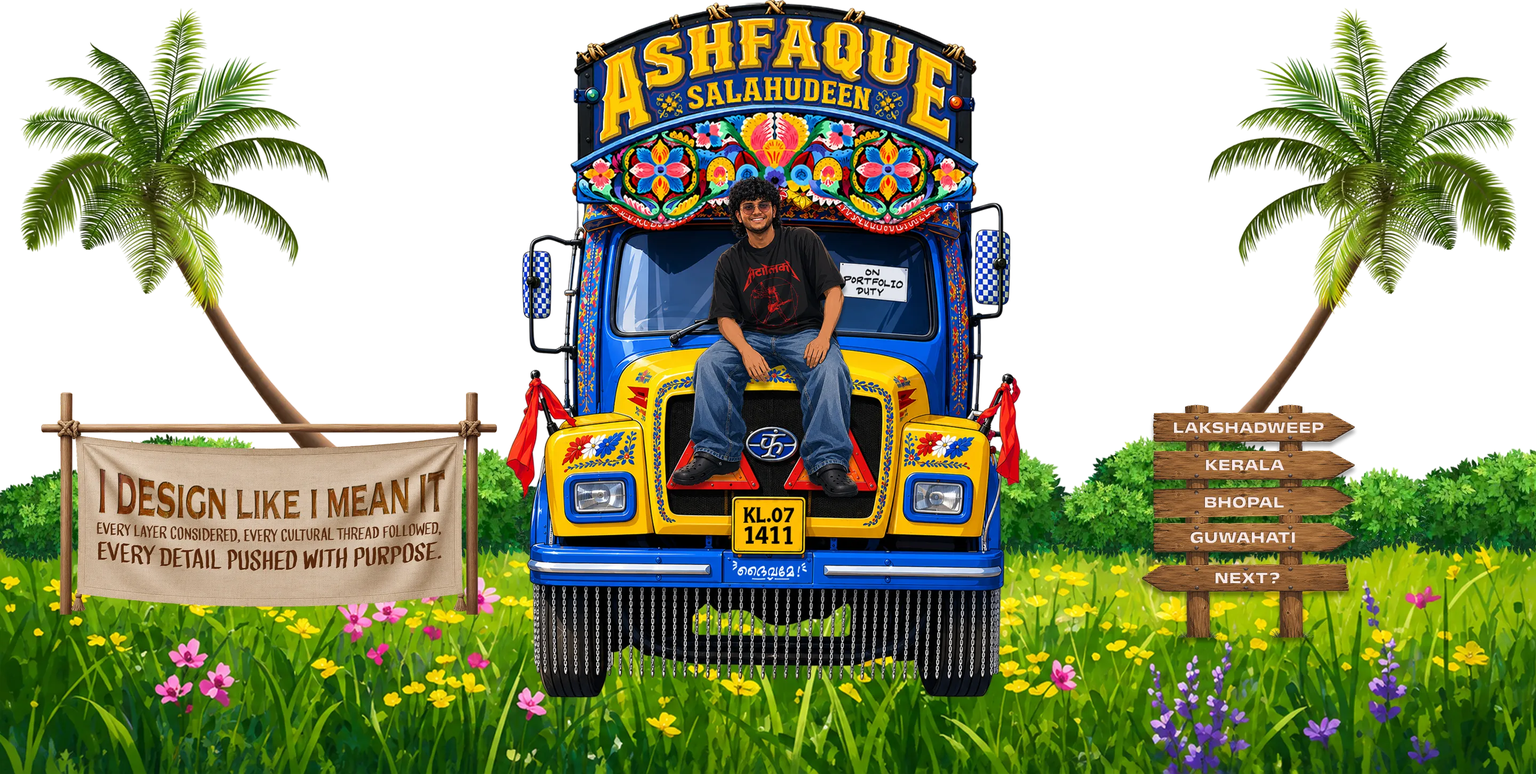
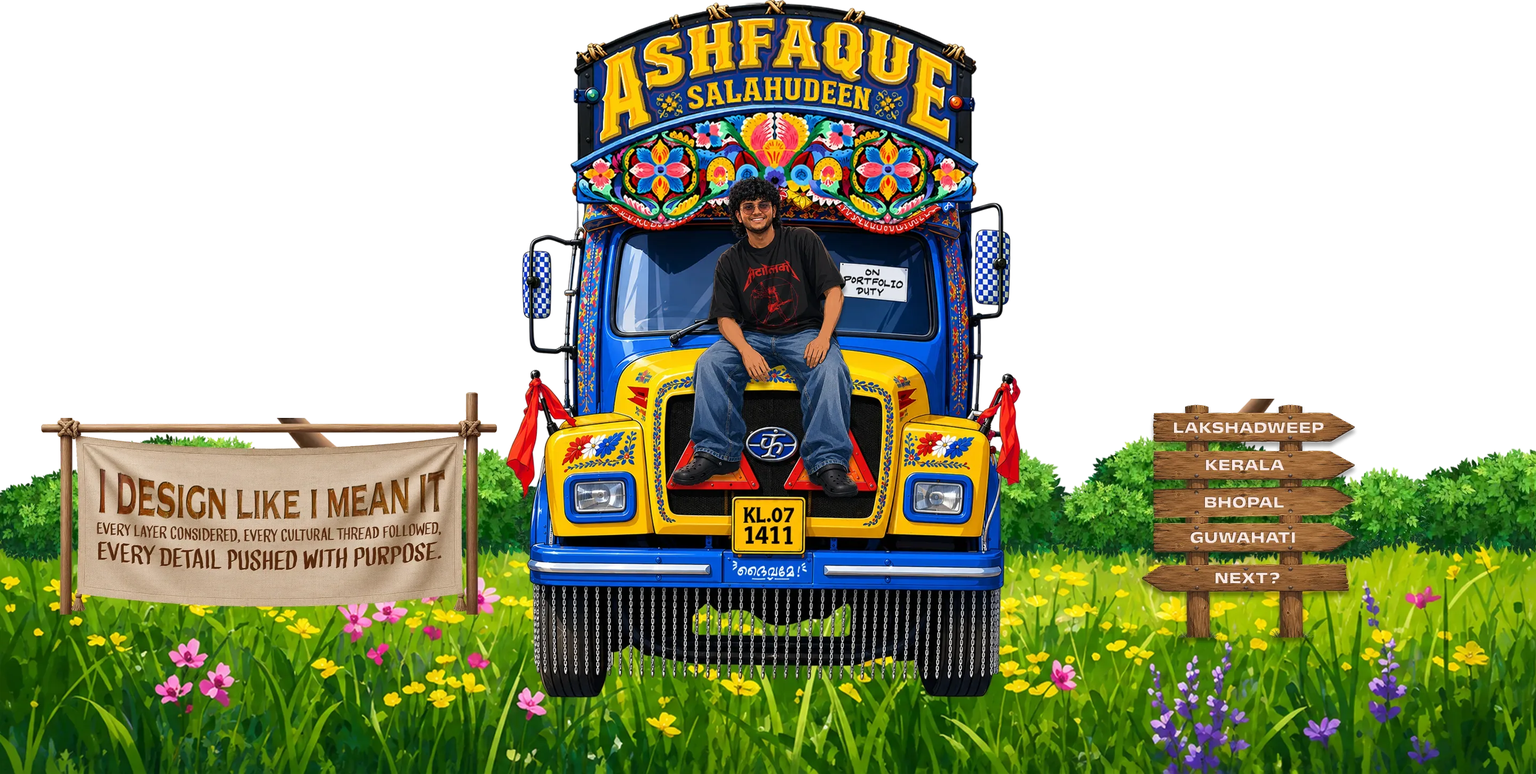
Swaying palms (cut out of scene), new CV box lid image
Claude-Session: https://claude.ai/code/session_01PSGEvQ9HAYuK8waPrBf5kE

diff --git a/css/style.css b/css/style.css
@@ -85,7 +85,7 @@ a { color: inherit; text-decoration: none; -webkit-tap-highlight-color: transpar
 
 /* CV box: closed lid image, opens on hover */
 .cv { height: calc(58 * var(--u)); z-index: 2; }
-.cv__closed { position: absolute; left: calc(3 / 176 * 100%); top: calc(3 / 58 * 100%); width: calc(170 / 176 * 100%); height: auto; transition: opacity .12s; }
+.cv__closed { position: absolute; left: 0; top: 0; width: 100%; height: 100%; object-fit: fill; transition: opacity .12s; }
 .cv__open, .cv__pressed { position: absolute; left: 0; top: 0; opacity: 0; transition: opacity .15s, transform .2s; transform-origin: 50% 100%; }
 @media (hover: hover) {
   .cv:hover .cv__closed { opacity: 0; }
@@ -182,6 +182,17 @@ a { color: inherit; text-decoration: none; -webkit-tap-highlight-color: transpar
   rotate: calc(var(--p) * 50deg);      /* scrolling nudges it round faster */
 }
 @keyframes spin { to { transform: rotate(360deg); } }
+
+/* palms: cut out of the scene, bend gently from the trunk base. Same parallax/zoom as the scene layer, so --ox/--oy is
+   the scene's zoom origin (720, 757) expressed inside each palm's own box. */
+.palm { --d: .35s; --fy: 90; transform-origin: calc(var(--ox) * var(--hu)) calc(var(--oy) * var(--hu)); }
+.palm img { animation: palmsway 6.5s ease-in-out infinite alternate; }
+.palm--l img { transform-origin: 87.5% 100%; }
+.palm--r img { transform-origin: 17.8% 100%; animation-duration: 7.4s; animation-delay: -3s; }
+@keyframes palmsway {
+  from { transform: rotate(-1.3deg) skewX(1deg); }
+  to   { transform: rotate(1.3deg)  skewX(-1deg); }
+}
 
 /* front grass sways in the breeze */
 .grass img { animation: breeze 5.5s ease-in-out infinite alternate; transform-origin: 50% 100%; }

diff --git a/index.html b/index.html
@@ -93,6 +93,10 @@
           </div>
         </div>
 
+        <!-- palms are cut out of the scene so they can sway on their own (pivot = trunk base) -->
+        <div class="l px palm palm--l" style="--x:15;--y:140;--w:297;--h:392;--ox:705;--oy:617;--par:28;--zoom:.09" aria-hidden="true"><div class="in"><img src="assets/hero/palm-l.webp" alt="" decoding="async"></div></div>
+        <div class="l px palm palm--r" style="--x:1128;--y:140;--w:297;--h:374;--ox:-408;--oy:617;--par:28;--zoom:.09" aria-hidden="true"><div class="in"><img src="assets/hero/palm-r.webp" alt="" decoding="async"></div></div>
+
         <div class="l px grass" style="--x:0;--y:598;--w:1440;--h:268;--par:-14">
           <div class="in"><img src="assets/hero/front-grass.webp" alt="" decoding="async"></div>
         </div>
